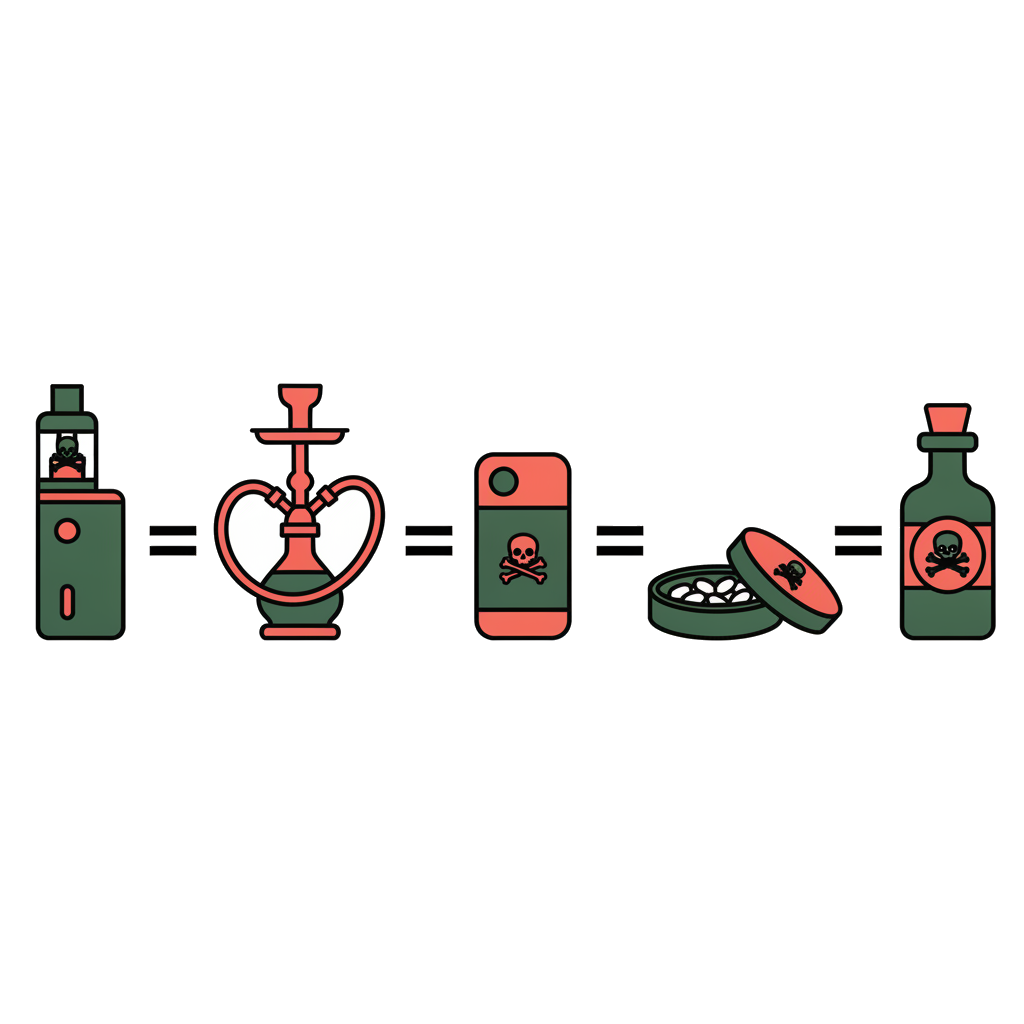
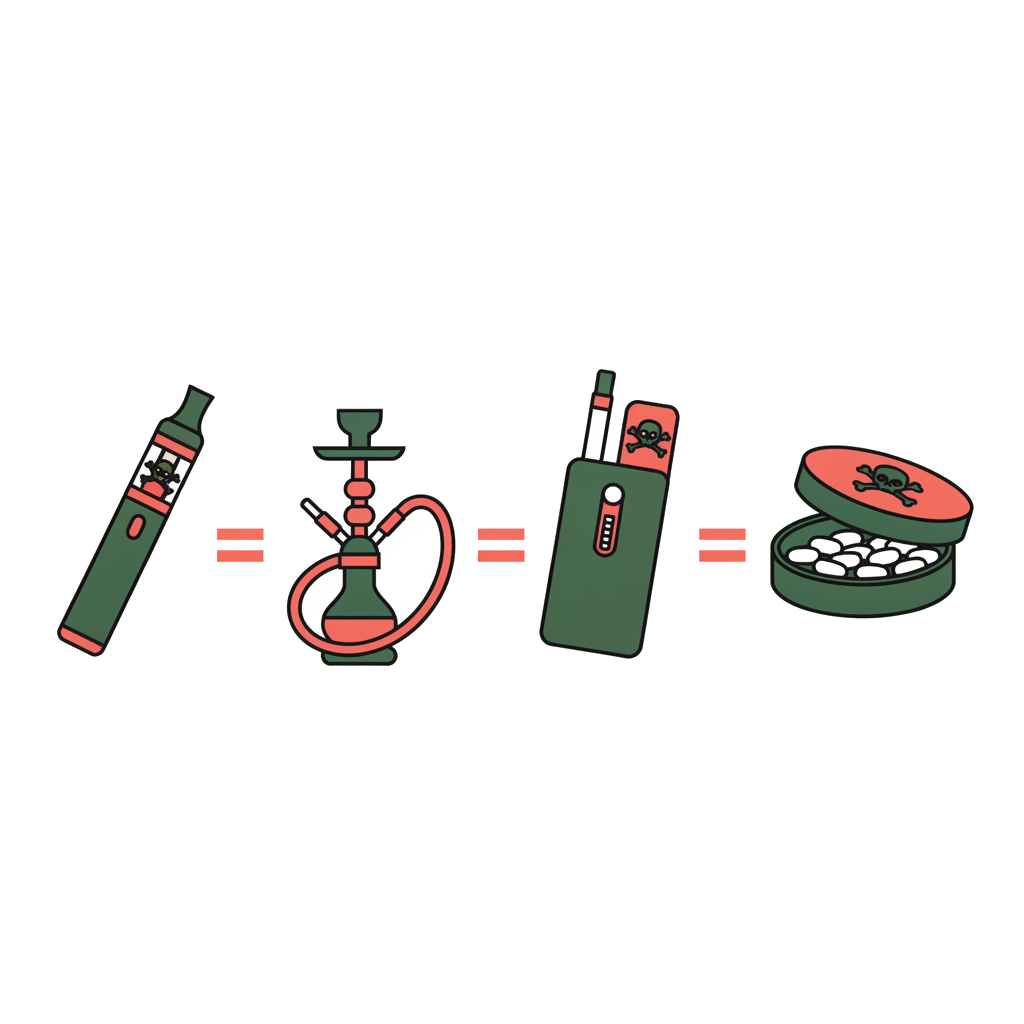
feat: update poison image (vape+hookah+iqos+snus, no bottle) + 2x cartoon size
- New img-poison.png: 4 items staggered, snus tin clearly visible, poison bottle removed
- Cartoon Artur in last-punch block: max-width 220px → 440px (2x)

Changed region(s): [[0.0312, 0.3438, 1.0, 0.6562]]

diff --git a/test1/index.html b/test1/index.html
@@ -210,7 +210,7 @@ nav{padding:0 24px;height:56px;display:flex;align-items:center;background:rgba(2
 .last-punch{background:#fff;padding:80px 24px 88px;text-align:center;display:flex;flex-direction:column;align-items:center;gap:24px;}
 .last-punch-main{font-size:clamp(2rem,6vw,3.8rem);font-weight:900;line-height:1.1;color:#071A0D;letter-spacing:-.03em;text-wrap:balance;max-width:760px;}
 .last-punch-sub{font-size:clamp(1.1rem,2.5vw,1.5rem);font-weight:500;line-height:1.5;color:#4A6B5A;max-width:560px;}
-.last-punch-svg{width:100%;max-width:220px;height:auto;display:block;}
+.last-punch-svg{width:100%;max-width:440px;height:auto;display:block;}
 
 /* TOP HERO WRAPPER */
 .top-hero-wrap{background:linear-gradient(180deg,#061F10 0%,#0D3826 20%,#0D3826 72%,#1A5C3E 100%);}